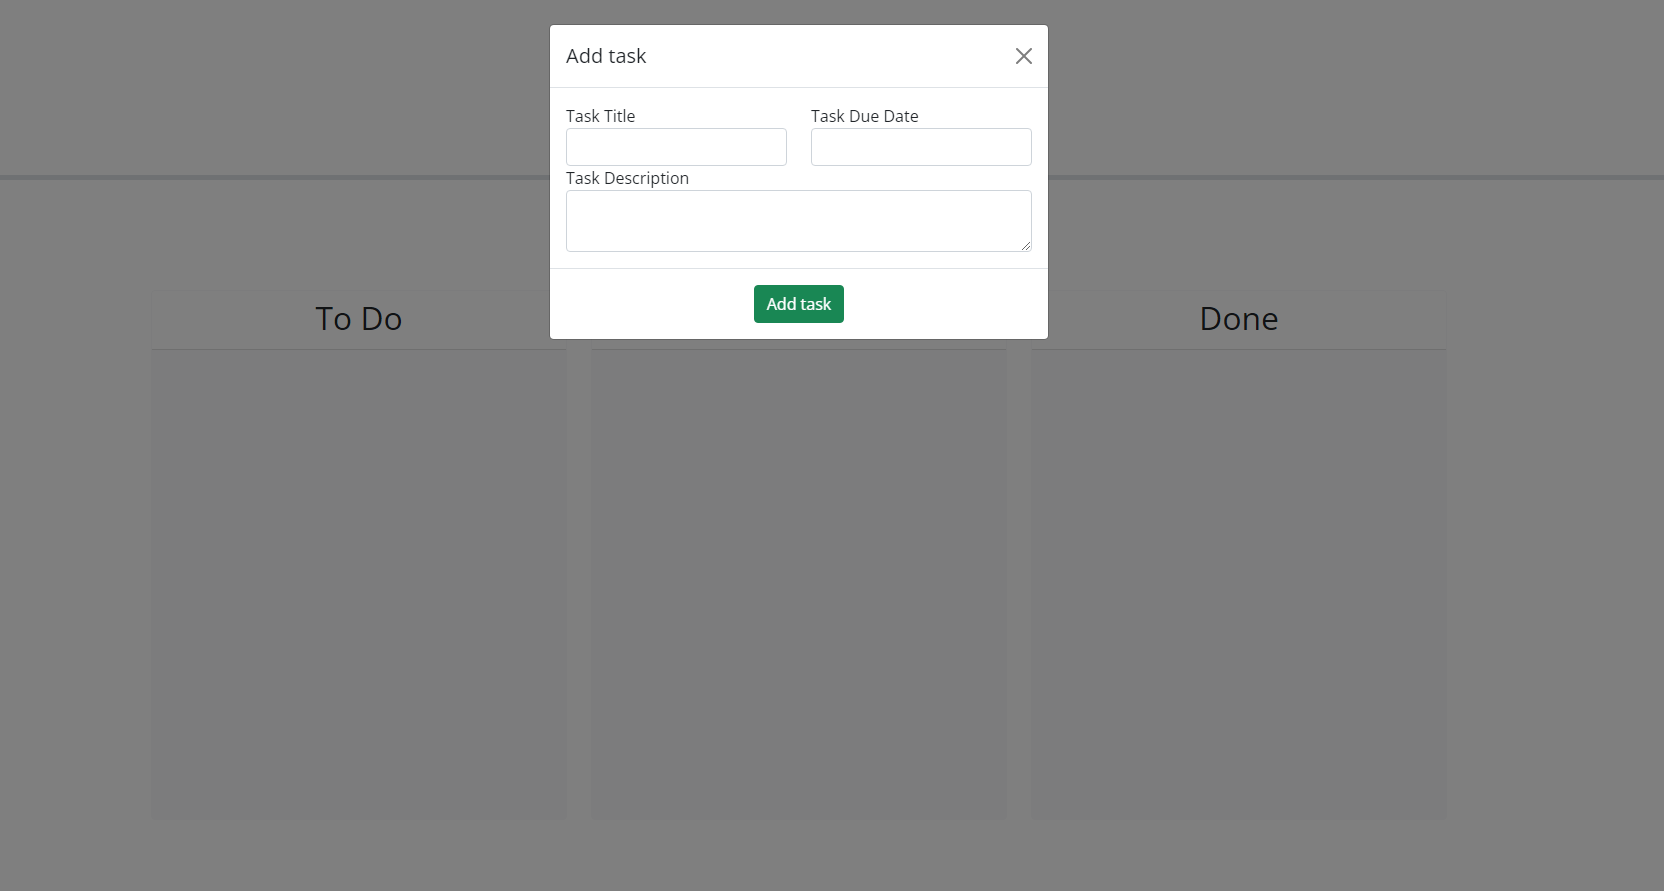
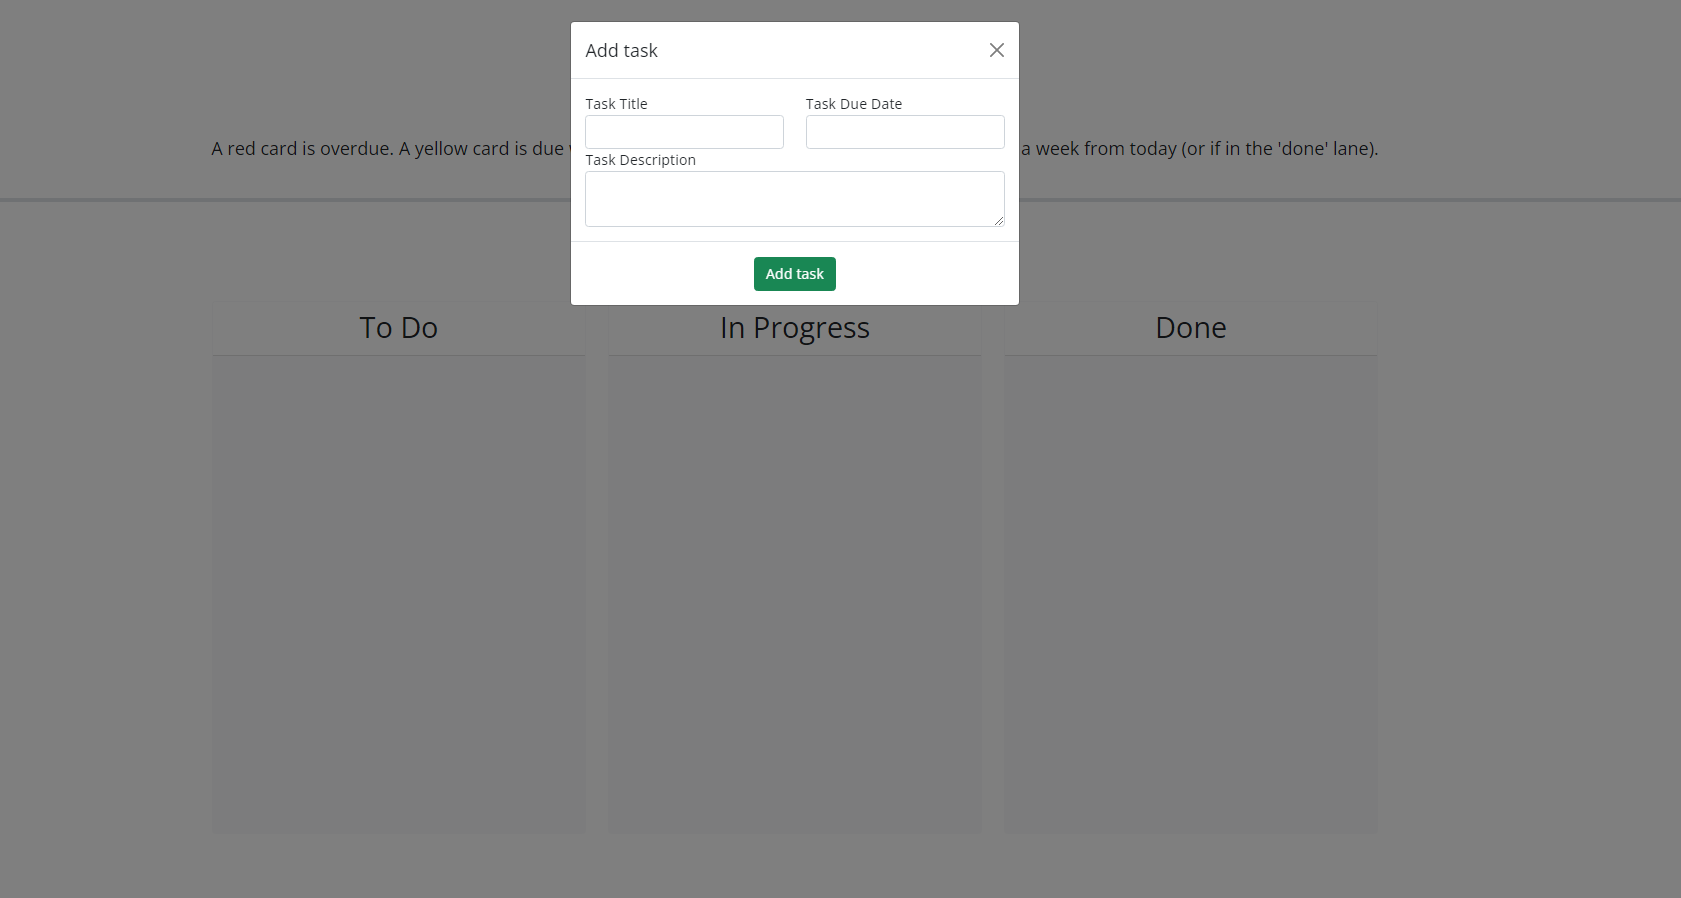
Updated codebase to remove typos and increase clarity

diff --git a/assets/js/script.js b/assets/js/script.js
@@ -2,6 +2,9 @@
 let taskList = JSON.parse(localStorage.getItem("tasks"));
 let nextId = JSON.parse(localStorage.getItem("nextId"));
 
+// A function is created to pull existing tasks from local storage. 
+// If there are no tasks, return an empty array we can then add to later in the code.  
+// Otherwise, the parsed tasks are returned (which we can then also add to later). 
 function readTasksFromStorage() {
   let tasks = localStorage.getItem("tasks");
   if (!tasks) {
@@ -11,6 +14,7 @@ function readTasksFromStorage() {
   return tasksParsed;
 }
 
+// A function to save tasks to local storage is set. We can call this when needed throughout the file. 
 function saveTasksToStorage(tasks) {
   localStorage.setItem("tasks", JSON.stringify(tasks));
 }
@@ -24,15 +28,15 @@ function generateTaskId() {
 
 // Todo: create a function to create a task card
 function createTaskCard(task) {
-  //The taskCard is created by creating it as a 'div' HTML element.
+  //The taskCard is made by creating a HTML 'div' element we can then append child elements to later.
   const taskCard = $('<div>');
-// We then attach some bootstrap card classes as well as the 'draggable' class
-  // to allow it to be draggable when we call the jquery draggable functionality later on. 
+  // We then attach some bootstrap card classes as well as the 'draggable' class
+  // to allow it to be moved when we call the jquery draggable functionality later on. 
   taskCard.addClass('card project-card draggable my-3');
-    // We also provide the card with its own 'data-project-id' attribute which we set later on.
+  // We also provide the card with its own 'data-project-id' attribute which we set later on.
   taskCard.attr('data-project-id', task.id);
 
-   // A similar 'div' element is created for the header and assigned to the input title of the task. 
+  // A similar 'div' element is created for the header and assigned to the input title of the task. 
   const cardHeader = $('<div>');
   cardHeader.addClass('card-header h4');
   cardHeader.text(task.title);
@@ -54,8 +58,8 @@ function createTaskCard(task) {
   // A 'button' element is also added so we can remove tasks with the handleDeleteTask function further down. 
   const cardDeleteButton = $('<button>');
   cardDeleteButton.addClass('btn btn-danger delete');
-  cardDeleteButton.text('delete');
-   // We set an id for the button we can later compare to the card button to ensure the correct card is deleted. 
+  cardDeleteButton.text('Delete');
+  // We set an id for the button we can later compare to the card button to ensure the correct card is deleted. 
   cardDeleteButton.attr('data-project-id', task.id);
 
   // The due date, description and delete buttons are appended to the card body. 
@@ -64,18 +68,18 @@ function createTaskCard(task) {
   cardBody.append(cardDeleteButton);
 
   // The card header and body is then appended to the main task card. 
-  // This creates the overall design of the card. 
+  // This creates the overall design of the task card. 
   taskCard.append(cardHeader);
   taskCard.append(cardBody);
 
-  // An if-statement is used to only with the condition that the task's dueDate exists and the status is not 'done'.
+  // An if-statement is used only with the condition that the task's dueDate exists and the status is not 'done'.
   if (task.dueDate && task.status !== 'done') {
     // We assign a variable 'now' to the call of 'dayjs' with no parameters to set it to the current date and time. 
     const now = dayjs();
     // We assign a variable 'taskDueDate' to the task's due date in the format of 'DD/MM/YYYY'.
     const taskDueDate = dayjs(task.dueDate, 'DD/MM/YYYY');
 
-    // We assign a variable 'sevenDaysAway' to a day that is seven days from today using the 'now' variable and adding 7 days. 
+    // We assign a variable 'sevenDaysAway' to a day that is seven days from today using the 'now' variable and using the add() method.
     // PLEASE NOTE: This is optional but I prefer the functionality it allows below. 
     let sevenDaysAway = now.add(7, 'day');
      // We then assign a variable 'isBetween' to the isBetween js plugin extension. 
@@ -86,9 +90,9 @@ function createTaskCard(task) {
     // The following if and else-if statements dictate the colour of the card based on how close the due date is to today. 
     if (dayjs(taskDueDate).isBetween(now, sevenDaysAway, 'day', "[)")) {
       // If the task's due date falls between now and seven days from now 
-      // (as in - the due date is approaching), the card's colour is set to yellow. 
+      // (to indicate the due date is approaching), the card's colour is set to yellow. 
       taskCard.addClass('bg-warning text-white');
-      // Else, if the current date is after the 'due date' (as in - the project is overdue),
+      // Otherwise, if the current date is after the 'due date' (to indicate the project is overdue),
       // then the card's colour is set to red. We also add a light-border to the existing red delete button so it is visible.  
     } else if (now.isAfter(taskDueDate, 'day')) {
       taskCard.addClass('bg-danger text-white');
@@ -118,7 +122,7 @@ function renderTaskList() {
   doneList.empty();
 
   // We then loop through the taskList, creating a card for each lane depending on it's status 
-  // (by appending the card to the lane). 
+  // (by appending the card to the correct lane). 
   for (let i of tasks) {
     const newCard = createTaskCard(i);
     if (i.status === 'to-do') {
@@ -135,7 +139,7 @@ function renderTaskList() {
     zIndex: 100,
 
     // I'm not 100% certain on how the code below works as I sourced it from the mini-project task -
-    // (see my README.MD file for specifics here).
+    // (see my README.MD file for specifics).
 
     // From what I understand, the following code creates a clone of the card so the user can 
     // visibly see how the card is being moved between lanes. 
@@ -153,7 +157,7 @@ function renderTaskList() {
 
 // Todo: create a function to handle adding a new task
 function handleAddTask(event) {
-  // We start by preventing the browser's default bevaviour overwriting our attempt to add a task. 
+  // We start by preventing the browser's default behaviour which would normally stop our attempt to add a task. 
   event.preventDefault();
 
   // An object is created to contain the user input for each task. 

diff --git a/index.html b/index.html
@@ -18,7 +18,8 @@
 <body>
   <header class="p-4 mb-4 text-center border-bottom border-5">
     <h1 class="display-3">Task Board</h1>
-    <p class="lead">A simple Kanban board for task management</p>
+    <p class="lead">A simple Kanban board for task management.</p>
+    <p class="lead">A red card is overdue. A yellow card is due within a week from today. A white card is due beyond a week from today (or if in the 'done' lane).</p>
   </header>
   <div class="container">
     <div class="text-center mb-5">
@@ -36,11 +37,11 @@
             <button type="button" class="btn-close" data-bs-dismiss="modal" aria-label="Close"></button>
           </div>
 
-          <!-- The form for the user's task inputs sits within the 'modal body' class. -->
+          <!-- The form for the user's input sits within the 'modal body' class. -->
           <div class="modal-body container">
             <form id="project-form">
-              <!-- Using a 'row' bootstrap class around the task title and due date entry fields allows them 
-              to sit on the same line when they also have a 'col-6' class within. -->
+              <!-- Using a 'row' class around the task title and due date input 
+                (which each also have a 'col-6' class allows them to sit on the same line. -->
                 <div class="row">
                   <div class="col-6">
                     <div class="form-group">
@@ -62,6 +63,7 @@
               </div>
             </form>
           </div>
+          
           <!-- The submit button for the form within the modal dialog sits in the 'modal footer' class. -->
           <div class="modal-footer justify-content-center">
             <button type="submit" form="project-form" class="btn btn-success" data-bs-dismiss="modal">Add task</button>          

diff --git a/README.md b/README.md
@@ -2,17 +2,17 @@
 
 ## Description
 
-This project is a project task board application built using Javascript. It serves as the week 5 challenge for The University of Sydney's Coding Bootcamp.
+This project is a task board application built using Javascript. It serves as the week 5 challenge for The University of Sydney's Coding Bootcamp.
 
-This project was built to help manage tasks in a 'kanban' style board. Completing this project solves the problem of not having a way to easily add, track and manage tasks in an easy way. This is achieved through reactive functionality such as allowing tasks to be dragged and dropped, colour coordination for each task depending on if the task is overdue or approaching the due date and the fact the tasks will remain in local storage. 
+This project was built to help manage individual projects or tasks in a 'kanban' style board. Completing this project solves the problem of not having a way to easily add, track and manage tasks in a digitally convenient way. This is achieved through reactive functionality by allowing tasks to be dragged and dropped into lanes representing their status, colour changes for each task depending on its due date and the fact the tasks will remain in local storage. 
 
-I learned a lot by completing this project, but my main takeaway is understanding how powerful other Javascript libraries such as Bootstrap and jQuery can be (especially when used in unison). 
+My biggest takeaway from completing this project was expanding my understanding of how to use the Javascript libraries of Bootstrap, jQuery and Day.js to greater effect. Digging into the documentation and utilising them in unison taught me that these libraries can not only reduce development time, but be powerful tools in their own right. 
 
-### Screenshot of application showing how a user can add a task by pressing the 'add task' button.
-![Screenshot of application showing how a user can add a task by pressing the 'add task' button](/assets/images/5-challenge-task-board_adding-task.png).
+### Screenshot of application showing how a user can add a task in a modal dialog (following pressing the 'add task' button):
+![Screenshot of application showing how a user can add a task by pressing the 'add task' button](/assets/images/5-challenge-task-board_adding-task.png)
 
-### Screenshot of application showing tasks added on board
-![Screenshot of application showing tasks added on board](/assets/images/5-challenge-task-board_tasks-added-on-board.png).
+### Screenshot of application showing tasks added to the board after being dragged to different lanes:
+![Screenshot of application showing tasks added on board](/assets/images/5-challenge-task-board_tasks-added-on-board.png)
 
 ## Usage
 
@@ -24,14 +24,14 @@ Alternatively, you can also clone the repository and run the project locally. [R
 
 ## Credits
 
-Some small snippets of code were inspired by the mini-project-5 task board assigned to us alongside this challenge project. 
-The main part utilised from that codebase is the syntax for the task 'drop' functionality from lines 142 to 152. 
+Some small snippets of code were inspired by the 'mini-project-5 task board' assigned to us alongside this challenge project. 
+The main part utilised from that codebase is the syntax for the 'drop' functionality found in lines 142 to 152 in this project's script.js file. 
 
-### Screenshot of script.js file showing the drop functionality taken from mini-project-5
+### Screenshot of script.js file showing the drop functionality utilised from mini-project-5:
 
 ![Screenshot of script.js file showing the drop functionality taken as inspiration from the mini-project-5 task board](/assets/images/5-challenge-task-board_drop-functionality-code.png)
 
-All credit for these snippets goes to the original programmers who set up the codebase for the coding bootcamp.  
+All credit for these lines of code goes to the original programmers who set up the codebase for the bootcamp's mini-project-5 task board. 
 
 ## License
 
